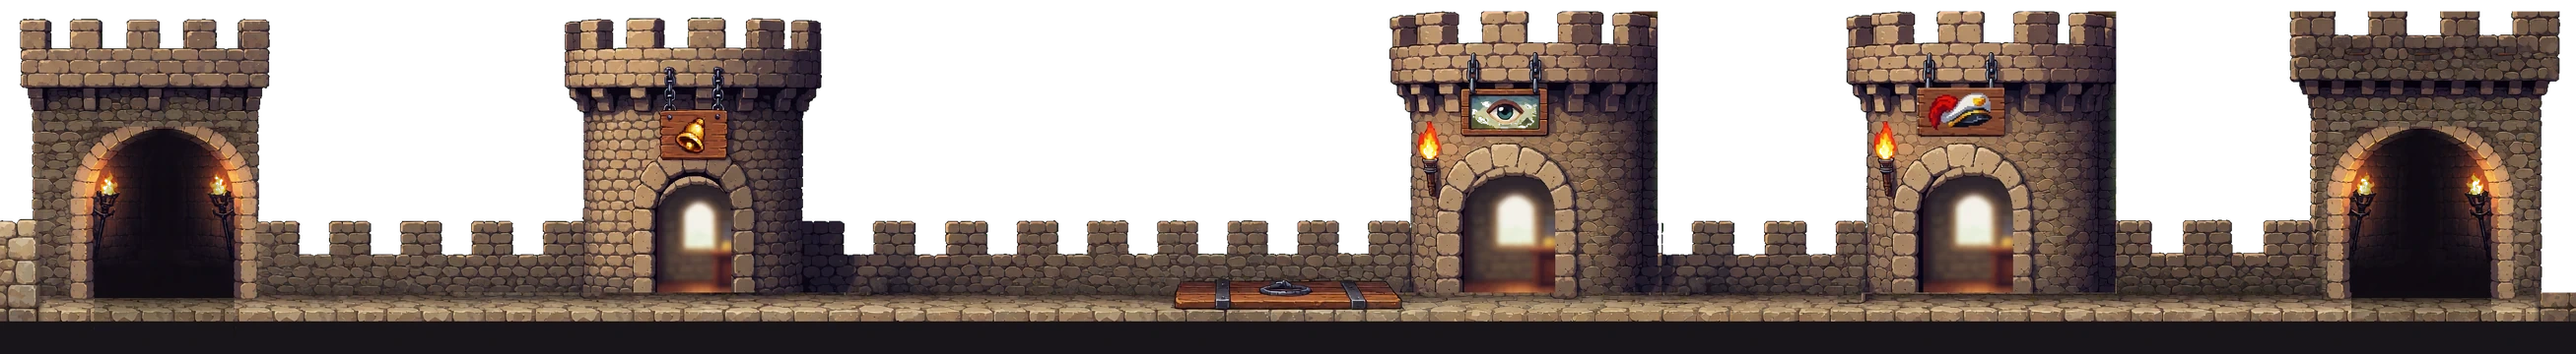
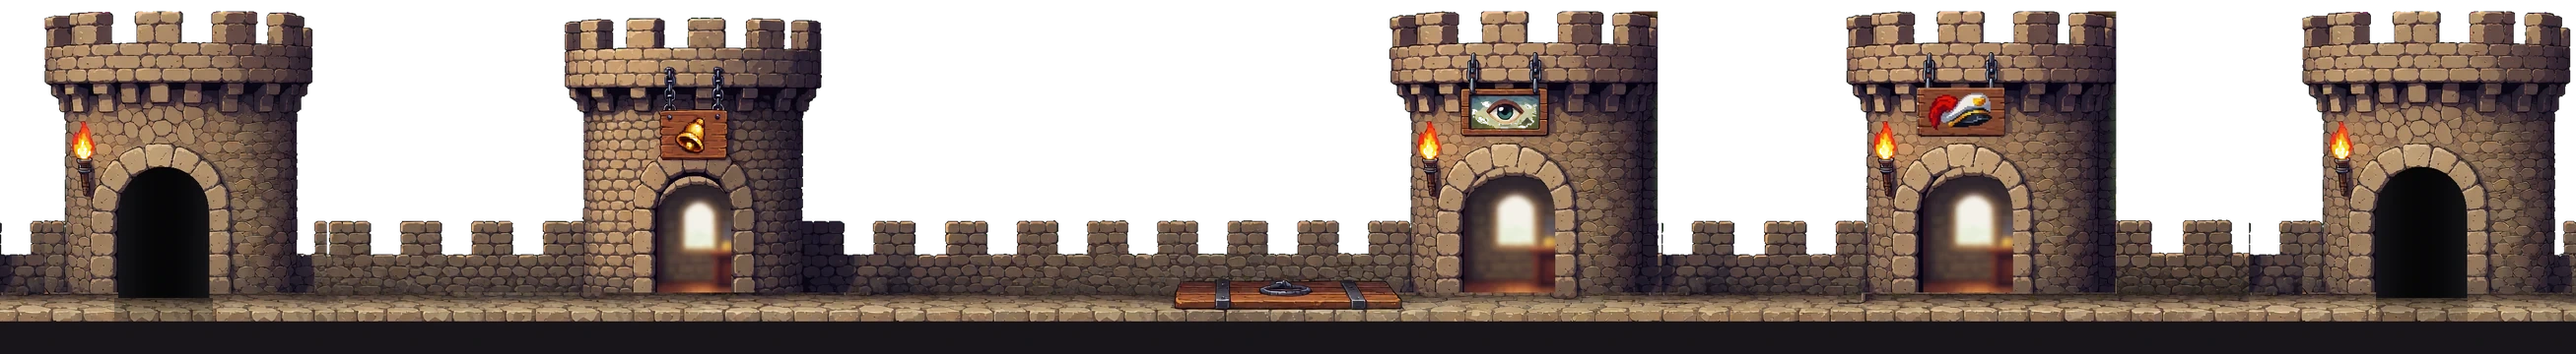
Night Watch: towers' end turrets match the room turrets, with black doorways down
Claude-Session: https://claude.ai/code/session_01JTmPYBVW2aVCQqTmNfy428

Changed region(s): [[0.8676, 0.0306, 1.0, 0.9167], [0.0, 0.0306, 0.1239, 0.9167]]

diff --git a/game/js/watch-art-castle.js b/game/js/watch-art-castle.js
@@ -396,35 +396,35 @@ window.WATCH_ART_CASTLE = {
    "stairs": {
     "back-stair": {
      "x": [
-      66,
-      267
+      115,
+      217
      ],
      "dir": "down",
      "use": 166,
      "block": {
       "img": "assets/img/watch/floors/stair-block-down.webp",
       "box": [
-       61,
-       196,
-       271,
-       345
+       98,
+       227,
+       234,
+       324
       ]
      }
     },
     "east-tower-stair": {
      "x": [
-      2357,
-      2558
+      2406,
+      2509
      ],
      "dir": "down",
      "use": 2457,
      "block": {
       "img": "assets/img/watch/floors/stair-block-down.webp",
       "box": [
-       2352,
-       196,
-       2562,
-       345
+       2389,
+       227,
+       2525,
+       324
       ]
      }
     }

diff --git a/game/tools/watch_art/castle/towers_ends.py b/game/tools/watch_art/castle/towers_ends.py
@@ -1,0 +1,26 @@
+# Towers rooftop, part 3 (Ladi, Nov 19): the square stair turrets at both ends are replaced by the round room turret
+# (the lookout's, its sign taken off by a Sogni edit, seed 3501, of a 512x512 crop at native x 2170) with a black
+# doorway: the stairs down. Doorway centres stay at native x 260 and 3850.
+# usage: python3 towers_ends.py <towers-roof.png> <sign-off edit.png> <out.png>
+import sys, numpy as np
+from PIL import Image
+src, edit, out = sys.argv[1:4]
+A = np.asarray(Image.open(src).convert('RGB')).copy()
+E = np.asarray(Image.open(edit).convert('RGB').resize((512, 512), Image.LANCZOS)).copy()
+t = E[:468, 41:470].copy()                                # turret tile (crop x 41..470 = native 2211..2640)
+L, R, T = 158 - 41, 302 - 41, 265                         # its doorway opening, tile px
+c, rad = (L + R) / 2, (R - L) / 2
+gy, gx = np.mgrid[0:468, 0:t.shape[1]]
+door = ((gy >= T + rad) | (np.hypot(gx - c, gy - (T + rad)) <= rad)) & (gx >= L) & (gx <= R) & (gy >= T)
+d = np.clip(np.abs(gx - c) / rad, 0, 1)                   # black, a touch lighter at the jambs
+shade = (6 + 16 * d ** 2)[..., None] * np.array([1.0, 0.95, 1.15])
+t[door] = shade[door].astype(np.uint8)
+g = t.astype(int); sky = (g[..., 1] > g[..., 0] + 40) & (g[..., 1] > g[..., 2] + 40)
+A[18:, 0:520] = A[18:, 1340:1860]                         # clear the old stair turrets (and their stair pits) back to
+A[18:, 3576:4096] = A[18:, 1340:1860]                     # parapet, sky and walkway
+for x0 in (260 - int(c), 3850 - int(c)):
+    reg = A[:468, x0:x0 + t.shape[1]]; reg[~sky] = t[~sky]
+    xs = np.arange(L, R + 1); dd = np.clip(np.abs(xs - c) / rad, 0, 1)   # the doorway runs on down to the old sill (476)
+    A[468:477, x0 + L:x0 + R + 1] = ((6 + 16 * dd ** 2)[:, None] * np.array([1.0, 0.95, 1.15]))[None].astype(np.uint8)
+Image.fromarray(A).save(out)
+print('tile door centre', c, 'width', R - L)

diff --git a/game/tools/watch_art/castle/export_castle.py b/game/tools/watch_art/castle/export_castle.py
@@ -43,7 +43,7 @@ BAR = json.load(open(f'{src}/barricades/barricades.json'))
 def up(f, sid, span, use): return (span, 'up', BAR[f'{f}/{sid}'], use, f'{f}-{sid}')
 def dn(span, box, use): return (span, 'down', box, use, None)
 # down: the boarded-up archway (block_down.py) placed around the arch centre cx at scale s (towers' archways are 1.4x)
-def abox(cx, s=1): return [round(cx - 118 * s), round(476 - 121 * s), round(cx + 117 * s), round(476 + 46 * s)]
+def abox(cx, s=1, sill=476): return [round(cx - 118 * s), round(sill - 121 * s), round(cx + 117 * s), round(sill + 46 * s)]
 GL, GR = dn([60, 285], abox(172), 163), dn([3811, 4036], abox(3923), 3924)
 STAIRS = {
  'cellars': {'stair-left': up('cellars', 'stair-left', [60, 520], 470), 'east-cellar-stair': up('cellars', 'east-cellar-stair', [3496, 4036], 3626)},
@@ -51,7 +51,7 @@ STAIRS = {
              'stair-right': up('ground', 'stair-right', [3420, 4030], 3500), 'east-cellar-stair': GR},
  'upper':   {'west-mid-stair': GL, 'back-stair': up('upper', 'back-stair', [60, 600], 470),
              'stair-right': GR, 'east-tower-stair': up('upper', 'east-tower-stair', [3496, 4036], 3626)},
- 'towers':  {'back-stair': dn([103, 418], abox(260, 1.4), 260), 'east-tower-stair': dn([3693, 4008], abox(3850, 1.4), 3850)},
+ 'towers':  {'back-stair': dn([180, 340], abox(260, 0.91, 466), 260), 'east-tower-stair': dn([3770, 3930], abox(3850, 0.91, 466), 3850)},
 }
 LINKS = {f: {**{k: v[3] for k, v in st.items()}, **({'ladder': {'cellars': 1994, 'ground': 2005, 'upper': 2005, 'towers': 2000}[f]})} for f, st in STAIRS.items()}
 def block(name):

diff --git a/game/CREDITS.md b/game/CREDITS.md
@@ -140,7 +140,7 @@ Everything else is drawn in code: portraits for characters without a painted one
 | The Night Watch's stacked town (`assets/img/watch/town`, and the per-level crops `assets/img/watch/levels/*/street.webp`): the West Road, Hill Road, Main Street and Far Lane on one hillside, each road above the next, joined by sloped paths and the chute | Laid out by `tools/watch_art/town.py` on 2026-11-18 from the Sogni buildings, trees and bushes credited above, plus a hillside soil tile and a stone retaining-wall tile generated for this game with [Sogni](https://www.sogni.ai) on 2026-11-18 with Krea 2 Turbo (`krea2_turbo_fp8_scaled`) on Ladi's Sogni Unlimited plan; roads, ramps, fences, the chute and the dock's plank walkway and river drawn in code. The backdrop behind the terraces (`town/back.webp`) reuses the hazed rooftop rows from the first set of level layers, raised to the top of the hill, over a hazed hillside of the same trees and bushes. Since 2026-11-18 the roads sit 125 px apart with a solid earth bank between them, each road's buildings are a layer of their own (`town/bld-*.webp`), and a blurred, see-through copy of each (`town/bld-*-soft.webp`) is made in code. The plain below the hazed rooftops is filled with distant villages and farmland (`town/back.webp`), or in the variants `town/back-forest.webp` and `town/back-mix.webp` with forest, rocky terrain and lakes (with a few villages in the mix), each from three panoramas generated for this game with Google's Gemini image generation (Gemini 3.1 Flash Image) on 2026-11-18 (`tools/watch_art/villages`, `forest` and `mix`, made by `tools/watch_art/gem.py`), cropped, hazed and cross-faded in code | Generated for this game with Sogni and Gemini; used under each service's terms for generated output | The Night Watch's town (`js/watch-art.js`) |
 | The Night Watch's castle floors (`assets/img/watch/floors/*/wall.webp`): the towers, upper floor, ground floor and cellars, each one long wall with its stairs at both ends and its rooms furnished at a person's scale | Generated for this game with [Sogni](https://www.sogni.ai) on 2026-11-18 on Ladi's Sogni Unlimited plan: each floor drawn empty as one wall with Krea 2 Turbo (`krea2_turbo_fp8_scaled`), then furnished in place with Krea 2 Identity Edit (`krea2_identity_edit_v1_2`) using the empty room for scale; windows and doorways keyed out by `tools/watch_art/floors2.py`. The cellar bunk that blocked a doorway removed with one more Krea 2 Identity Edit; the ground floor's window sills, the solid end walls, the opened bridge doorway and the hoist shaft on the left drawn in code by the same script | Generated for this game; used under Sogni's terms for generated output | The Night Watch's castle (`js/watch-art.js`) |
 | The Night Watch's dialogue portraits (`assets/img/watch/portraits/*.webp`): Seo-yeon, Mira, Kai, Dutch, Postmaster Coo, Bru, Kagemaru, Lexi, Grandma Wen, Ayo, Aigerim, Chad, Sir Seymour Backups, Old Hobb, Sergeant Pell, Tess, Doug, Hollis, Odu, Fennel, the Captain and the Hooded Stranger | Generated for this game with [Sogni](https://www.sogni.ai) on 2026-11-18 with Krea 2 Identity Edit (`krea2_identity_edit_v1_2`) on Ladi's Sogni Unlimited plan, each turned into a head-and-shoulders bust from that character's side-view render in `assets/img/watch/people` (and, where one exists, their portrait in `assets/img/portraits` as a second reference); one of two takes picked, cropped and converted to WebP; Seymour's closed visor edited the same way, and Kagemaru's wrists recoloured black in code. Chad's portrait (a young first-year MBA in a navy quarter zip) drawn fresh from a text prompt with Krea 2 Turbo (`krea2_turbo_fp8_scaled`), one of six takes picked. Prompts in `tools/watch_art/jobs/jobs-portrait.json` | Generated for this game; used under Sogni's terms for generated output | The Night Watch's dialogue box |
-| The Night Watch's HD castle floors (`assets/img/watch/floors/{ground,cellars,upper,towers}/wall-v2.webp`): the ground floor (gatehouse, great hall with its fireplace, post room), the brick-vaulted cellars, the upper floor and the tower top, painted 4096x512 (masters kept in the project files) and scaled to 2614x360 for the game, with stairs, a floor trapdoor and archway doorways with picture signs | Generated for this game with [Sogni](https://www.sogni.ai) on 2026-11-18 and 2026-11-19 on Ladi's Sogni Unlimited plan: an empty HD hall drawn with Krea 2 Turbo (`krea2_turbo_fp8_scaled`), then built up one feature per edit with Krea 2 Identity Edit (`krea2_identity_edit_v1_2`) in 2048-wide windows pasted back with feathered edges (`tools/watch_art/castle/winedit.py`); the eight doorway signs drawn with Krea 2 Turbo on white and cut out. The cellars were rebuilt in code from one clean vault bay of the Sogni render, and missing doorways were copied from another doorway on the same floor (`tools/watch_art/castle/cellars_tiles.py`, `compose2.py`, `towers_fix.py`; the towers were repainted as an open rooftop (Nov 19) with Krea 2 Identity Edit in three windows, left to right (`towers_roof.py`), the captain's turret copied from the lookout's with its own sign and every turret door opened onto its room glimpse (`towers_turrets.py`); the upper floor's bridge doorway was repainted to show the sky and the bridge walkway (`bridge_doorway.py`); floor is drawn through each down archway by `tools/watch_art/floor_thresholds.py`; the cellar doorways were given a left stone jamb mirrored from the right one and a stray strip of stone beside them replaced with wall in `cellar_doors.py`; the towers' stair down was moved to the left end the same way in `towers_stair_left.py`). Every floor end's stairs (Ladi, Nov 19) are assembled by `tools/watch_art/castle/stairs_both.py` from the upper floor's Sogni stair and a Sogni archway (made symmetric, its inside darkened and a stair cut through the floor below it drawn from the wall's own stone, `arch2.py`); the boarded-arch overlay (`assets/img/watch/floors/stair-block-down.webp`) painted in place by a Krea 2 Identity Edit of the ground floor's right archway (seed 2102) and cut out where the edit changed it (`block_down.py`), and the barricades on the rising stairs (`assets/img/watch/floors/<floor>/block-<stair>.webp`) drawn in code along each stair's slope (`stair_barricades.py`). Windows keyed to transparent by `tools/watch_art/castle/export_castle.py` | Generated for this game; used under Sogni's terms for generated output | The Night Watch's castle floors (`js/watch-art-castle.js`, `WATCH_ART_CASTLE`) |
+| The Night Watch's HD castle floors (`assets/img/watch/floors/{ground,cellars,upper,towers}/wall-v2.webp`): the ground floor (gatehouse, great hall with its fireplace, post room), the brick-vaulted cellars, the upper floor and the tower top, painted 4096x512 (masters kept in the project files) and scaled to 2614x360 for the game, with stairs, a floor trapdoor and archway doorways with picture signs | Generated for this game with [Sogni](https://www.sogni.ai) on 2026-11-18 and 2026-11-19 on Ladi's Sogni Unlimited plan: an empty HD hall drawn with Krea 2 Turbo (`krea2_turbo_fp8_scaled`), then built up one feature per edit with Krea 2 Identity Edit (`krea2_identity_edit_v1_2`) in 2048-wide windows pasted back with feathered edges (`tools/watch_art/castle/winedit.py`); the eight doorway signs drawn with Krea 2 Turbo on white and cut out. The cellars were rebuilt in code from one clean vault bay of the Sogni render, and missing doorways were copied from another doorway on the same floor (`tools/watch_art/castle/cellars_tiles.py`, `compose2.py`, `towers_fix.py`; the towers were repainted as an open rooftop (Nov 19) with Krea 2 Identity Edit in three windows, left to right (`towers_roof.py`), the captain's turret copied from the lookout's with its own sign and every turret door opened onto its room glimpse (`towers_turrets.py`), and the stair turrets at both ends replaced by the same turret with its sign removed by a Krea 2 Identity Edit and a black doorway (`towers_ends.py`); the upper floor's bridge doorway was repainted to show the sky and the bridge walkway (`bridge_doorway.py`); floor is drawn through each down archway by `tools/watch_art/floor_thresholds.py`; the cellar doorways were given a left stone jamb mirrored from the right one and a stray strip of stone beside them replaced with wall in `cellar_doors.py`; the towers' stair down was moved to the left end the same way in `towers_stair_left.py`). Every floor end's stairs (Ladi, Nov 19) are assembled by `tools/watch_art/castle/stairs_both.py` from the upper floor's Sogni stair and a Sogni archway (made symmetric, its inside darkened and a stair cut through the floor below it drawn from the wall's own stone, `arch2.py`); the boarded-arch overlay (`assets/img/watch/floors/stair-block-down.webp`) painted in place by a Krea 2 Identity Edit of the ground floor's right archway (seed 2102) and cut out where the edit changed it (`block_down.py`), and the barricades on the rising stairs (`assets/img/watch/floors/<floor>/block-<stair>.webp`) drawn in code along each stair's slope (`stair_barricades.py`). Windows keyed to transparent by `tools/watch_art/castle/export_castle.py` | Generated for this game; used under Sogni's terms for generated output | The Night Watch's castle floors (`js/watch-art-castle.js`, `WATCH_ART_CASTLE`) |
 | The Night Watch's room popups (`assets/img/watch/rooms/*.webp`): the archive, strongroom, barracks, tavern, wardrobe, ledger room, bridge tower, watchtower, lookout and captain's quarters, each painted around the object a breach is fixed on | Generated for this game with [Sogni](https://www.sogni.ai) on 2026-11-19 with Krea 2 Turbo (`krea2_turbo_fp8_scaled`) on Ladi's Sogni Unlimited plan, from the prompts in `tools/watch_art/castle/rooms.py` (one take each); trimmed and resized to 1600x900 and converted to WebP by `tools/watch_art/castle/export_castle.py` | Generated for this game; used under Sogni's terms for generated output | The Night Watch's room popups (`js/watch-art-castle.js`, `WATCH_ART_CASTLE`) |
 | The Night Watch bridge's walkway (`assets/img/watch/floors/bridge/street.webp` deck and back parapet, `deck-front.webp`) | Drawn in code for this game on 2026-11-19 by `tools/watch_art/castle/bridge_deck.py` from the bridge's own Sogni-generated stone (see the parallax layers line above): flagstone deck rows and a low back parapet behind the existing bridge, and the front crenellations split into their own layer that draws over the walker's feet | Generated for this game; used under Sogni's terms for generated output | The Night Watch's bridge (`js/watch-art.js`) |
 
